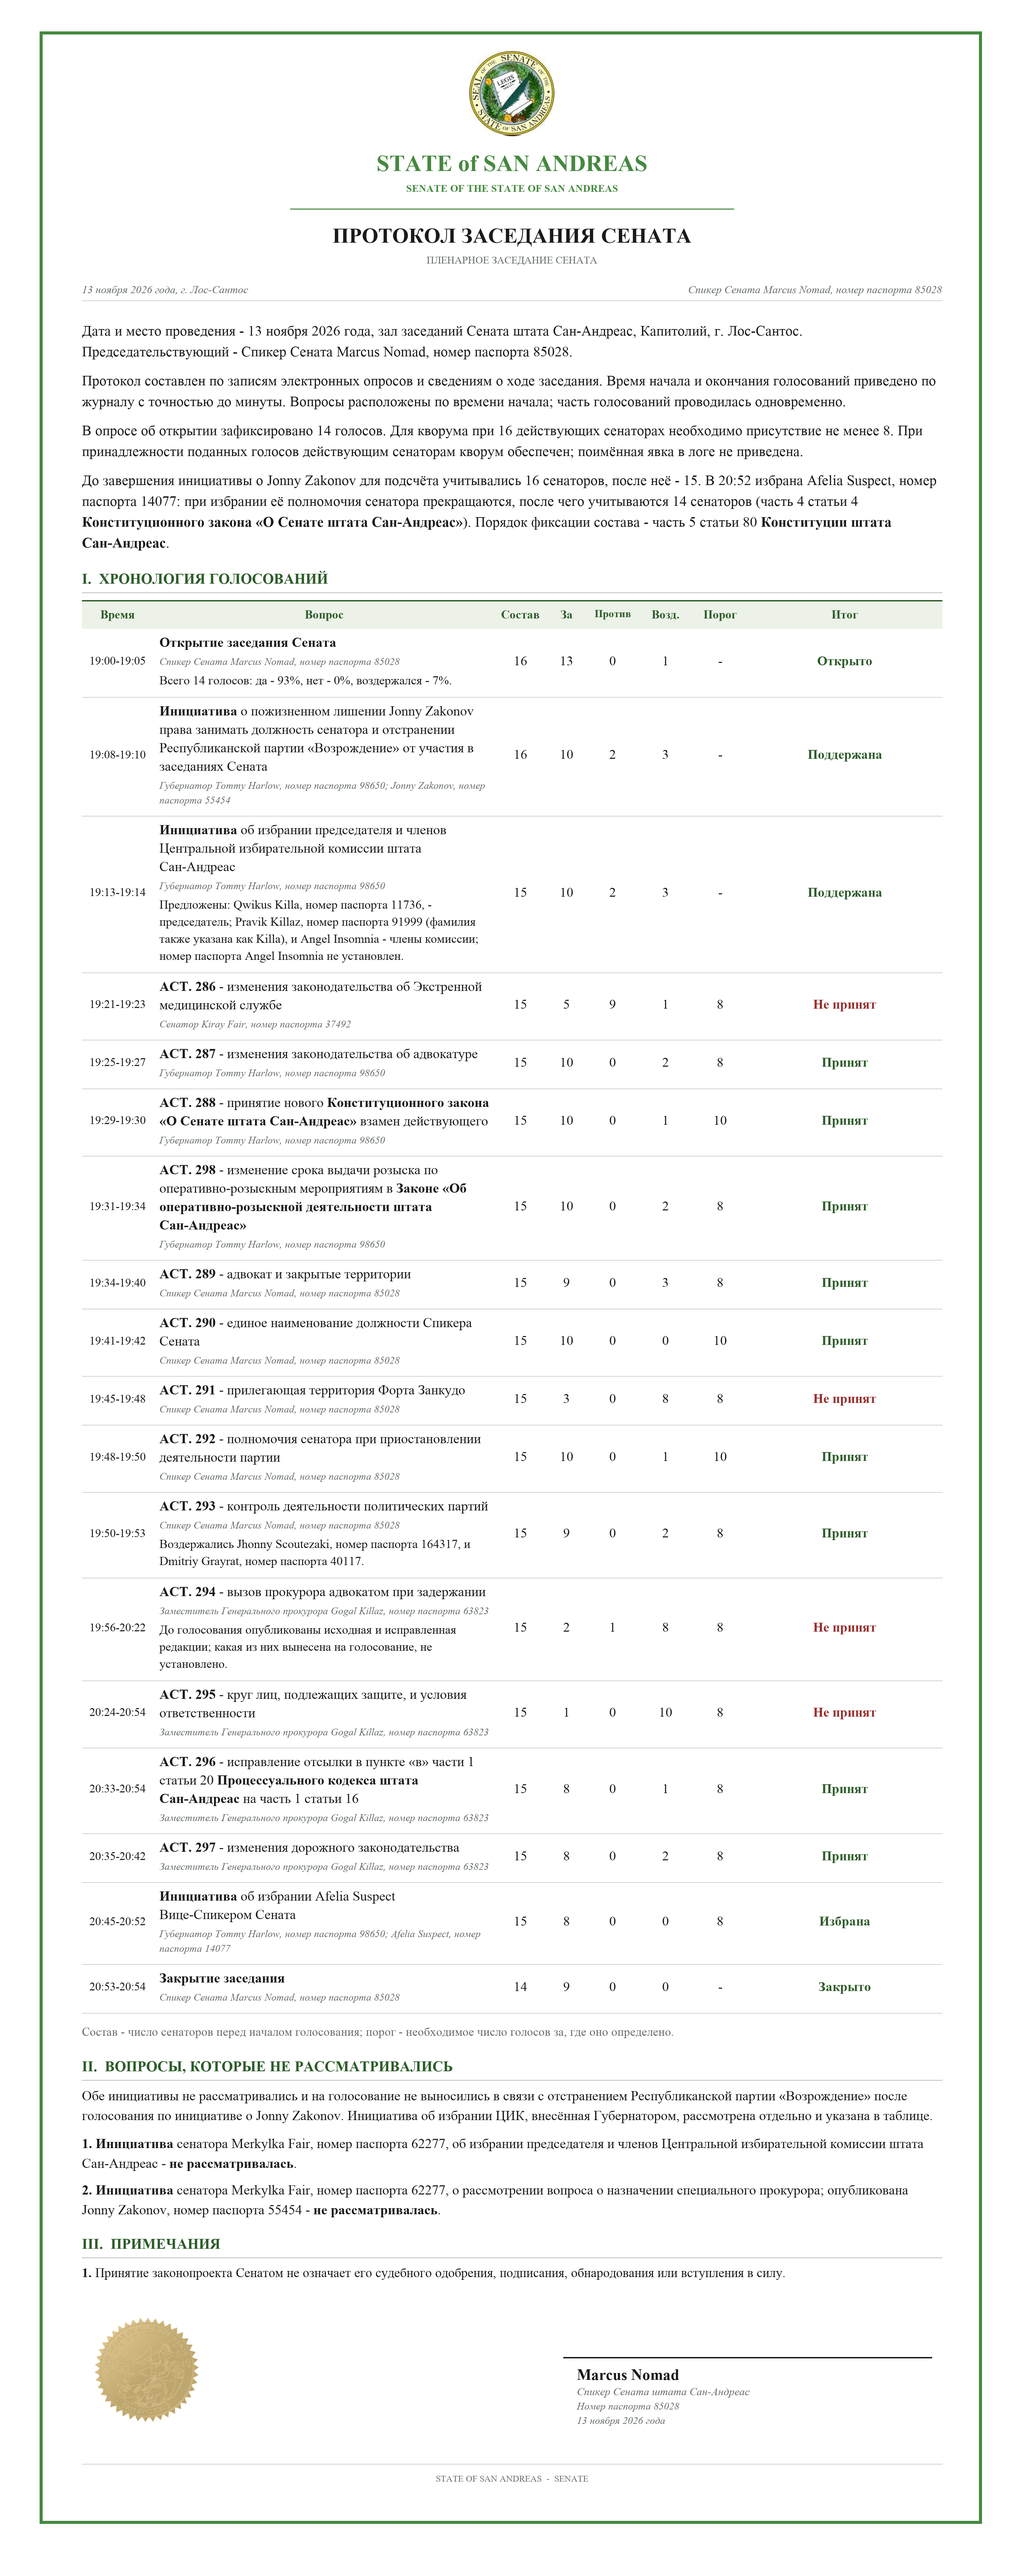
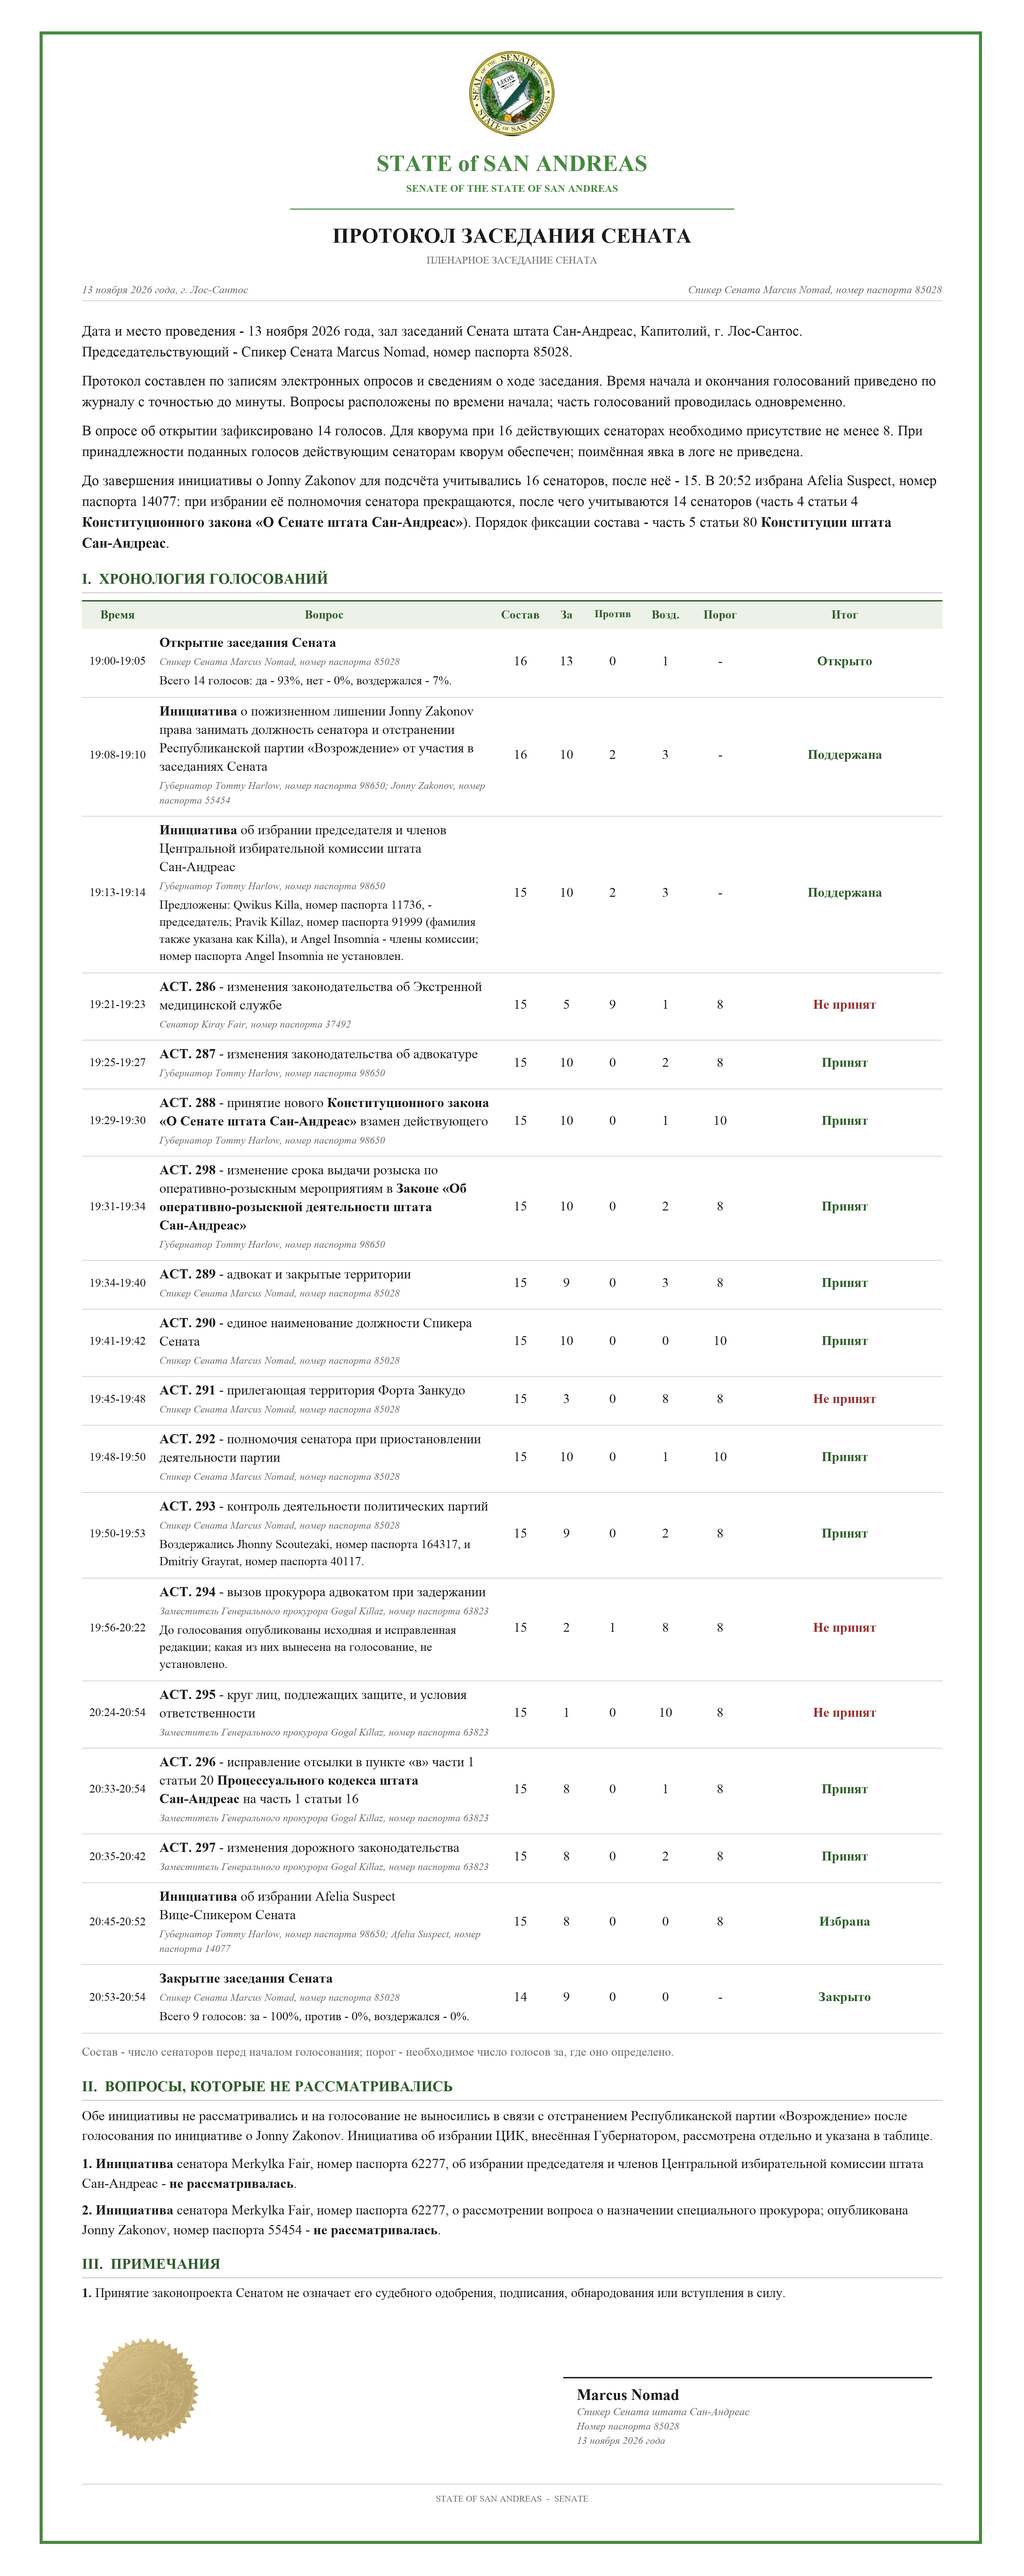
Add Senate closing vote to results

diff --git a/tests/test_senat_documents_13_11.py b/tests/test_senat_documents_13_11.py
@@ -44,8 +44,9 @@ class SenateDocumentsTests(unittest.TestCase):
         self.assertTrue(senate.validate_polls_against_log())
         self.assertEqual(len(senate.POLLS), 18)
         self.assertEqual(len(senate.SUBSTANTIVE), 16)
-        self.assertEqual(len(senate.RESULT_POLLS), 17)
-        self.assertEqual(senate.RESULT_POLLS, (senate.BY_KEY["open"],) + senate.SUBSTANTIVE)
+        self.assertEqual(len(senate.RESULT_POLLS), 18)
+        self.assertEqual(senate.RESULT_POLLS, (senate.BY_KEY["open"],) + senate.SUBSTANTIVE + (senate.BY_KEY["close"],))
+        self.assertEqual(senate.RESULT_POLLS, senate.POLLS)
         self.assertEqual(sum(p.key.isdigit() for p in senate.POLLS), 13)
         self.assertEqual(len({p.key for p in senate.POLLS}), 18)
 
@@ -68,11 +69,35 @@ class SenateDocumentsTests(unittest.TestCase):
             self.assertEqual(sum(opening.title in row[1] for row in rows[1:]), 1)
             self.assertNotIn("Вы проголосовали за этот ответ", senate.build_bb(protocol))
 
+    def test_closing_votes_time_and_percentages_in_both_documents(self):
+        closing = senate.BY_KEY["close"]
+        self.assertEqual((closing.start, closing.end), ("20:53", "20:54"))
+        self.assertEqual((closing.yes, closing.no, closing.abstain, closing.total), (9, 0, 0, 9))
+        self.assertEqual(closing.active, 14)
+        self.assertEqual(closing.detail, "Всего 9 голосов: за - 100%, против - 0%, воздержался - 0%.")
+        source = senate.SOURCE.read_text(encoding="utf-8")
+        source = source.split("\nЗакрытие заседания 13.11.26\n", 1)[1].split("\nОпрос завершён\n", 1)[0]
+        self.assertRegex(source, r"(?s)Закрытие\s+За\s+9 голосов\s+100%\s+Против\s+0 голосов\s+0%"
+                                 r"\s+Воздержался\s+0 голосов\s+0%\s+9 голосов")
+        for protocol in (False, True):
+            rows = table_rows(senate.build_bb(protocol))
+            self.assertEqual(untag(rows[-1][0]), "20:53-20:54")
+            self.assertIn(closing.title, rows[-1][1])
+            self.assertIn(senate.SPEAKER, rows[-1][1])
+            self.assertIn(senate.bb_text(closing.detail), rows[-1][1])
+            count_index = 3 if protocol else 2
+            self.assertEqual([untag(c) for c in rows[-1][count_index:count_index + 3]], ["9", "0", "0"])
+            self.assertEqual(untag(rows[-1][-1]), "Закрыто")
+            self.assertEqual(sum(closing.title in row[1] for row in rows[1:]), 1)
+            self.assertNotIn("Aliya Nomad", rows[-1][1])  # упоминание не устанавливает личный голос
+
     def test_validator_rejects_modified_poll_or_finish_time(self):
         original = senate.SOURCE.read_text(encoding="utf-8")
         changes = [
             ("8 голосов\n89%\nПротив", "7 голосов\n89%\nПротив"),
             ("«296» завершён. — 20:54", "«296» завершён. — 20:55"),
+            ("Закрытие\nЗа\n\n9 голосов\n100%", "Закрытие\nЗа\n\n8 голосов\n100%"),
+            ("«Закрытие» завершён. — 20:54", "«Закрытие» завершён. — 20:55"),
         ]
         for before, after in changes:
             self.assertIn(before, original)
@@ -262,9 +287,10 @@ class SenateDocumentsTests(unittest.TestCase):
             self.assertIn("Jonny", visible)
             self.assertIn("Afelia", visible)
             self.assertIn("296", visible)
-            for key in ("open", "cec_governor", "293", "294"):
+            for key in ("open", "cec_governor", "293", "294", "close"):
                 self.assertIn(senate.BY_KEY[key].detail, visible)
             self.assertEqual(painter.texts.count("19:00-19:05"), 1)
+            self.assertEqual(painter.texts.count("20:53-20:54"), 1)
             self.assertNotIn("Вы проголосовали за этот ответ", visible)
             for p in senate.POLLS if protocol else senate.RESULT_POLLS:
                 self.assertIn(p.interval, visible)

diff --git a/tools/make_senat_documents_13_11.py b/tools/make_senat_documents_13_11.py
@@ -133,13 +133,15 @@ POLLS = (
          "[B]Инициатива[/B] об избрании Afelia Suspect Вице-Спикером Сената",
          GOVERNOR + "; Afelia Suspect, номер паспорта 14077"),
     Poll("close", "Закрытие заседания 13.11.26", "Закрытие", "20:53", "20:54",
-         9, 0, 0, 14, "-", "Закрыто", "служебное", "[B]Закрытие заседания[/B]", SPEAKER),
+         9, 0, 0, 14, "-", "Закрыто", "служебное",
+         "[B]Закрытие заседания Сената[/B]", SPEAKER,
+         detail="Всего 9 голосов: за - 100%, против - 0%, воздержался - 0%."),
 )
 
 BY_KEY = {poll.key: poll for poll in POLLS}
 SUBSTANTIVE = tuple(p for p in POLLS if p.kind != "служебное")
-# В итогах отдельно показывается открытие, а закрытие остаётся во вводной части.
-RESULT_POLLS = (BY_KEY["open"],) + SUBSTANTIVE
+# В итогах показаны и открытие, и закрытие в порядке начала голосований.
+RESULT_POLLS = (BY_KEY["open"],) + SUBSTANTIVE + (BY_KEY["close"],)
 UNVOTED_CEC_URL = "https://docs.google.com/document/d/1YULp4KtWRA2fbbngZjd2vx6K20C5efhrr8Bbj9ICcOw/edit?tab=t.0"
 SPECIAL_PROSECUTOR_URL = "https://docs.google.com/document/d/1w1DoJKVzdqG6RI8ZwLgpDtIsF3fbsp4Mo0LXBs5BS3M/edit?tab=t.0"
 REVISED_294_URL = "https://docs.google.com/document/d/1es8SpMm30VyHhDh2d7-O3DfKDjAxkcJRdYFojrvp4OE/edit?usp=sharing"
@@ -170,11 +172,10 @@ UNCONSIDERED_REASON = (
 RESULT_INTRO = (
     "Пленарное заседание Сената штата Сан-Андреас состоялось 13 ноября 2026 года "
     "под председательством Спикера Сената Marcus Nomad, номер паспорта 85028.",
-    "При закрытии заседания подано 9 голосов: 9 за, 0 против, 0 воздержались.",
     "До голосования по инициативе о Jonny Zakonov для подсчёта учитывались 16 сенаторов; "
     "после него - 15. После избрания Afelia Suspect Вице-Спикером - 14.",
-    "Ниже - голосование об открытии и рассмотренные вопросы в порядке начала голосования; "
-    "указаны время начала и окончания. Неучастие не приравнивается к воздержанию.",
+    "Голосования приведены в порядке начала; указано время начала и окончания. "
+    "Неучастие не приравнивается к воздержанию.",
 )
 
 PROTOCOL_INTRO = (
